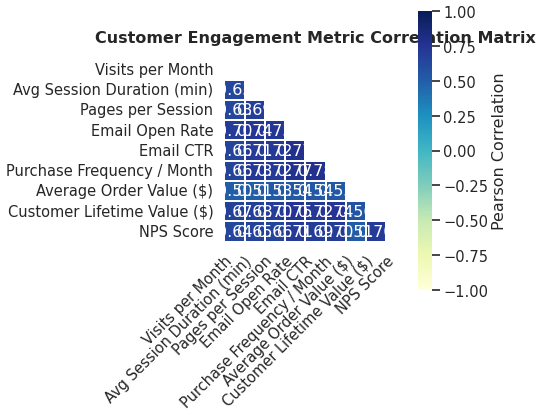
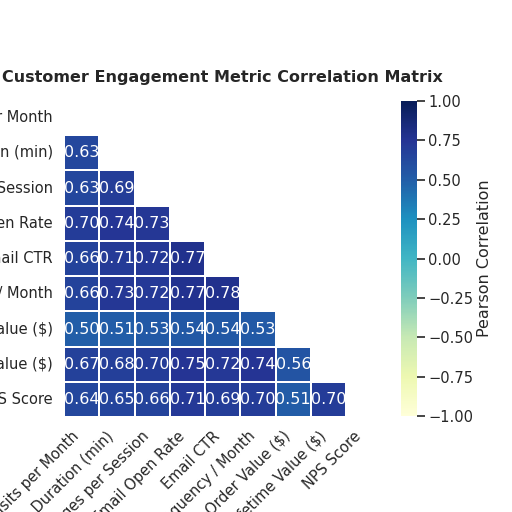
512

diff --git a/chart.py b/chart.py
@@ -103,8 +103,12 @@ def main():
     sns.set_context("talk")  # presentation-ready text sizes
 
     # --- Create 512x512 canvas ---
-    # 8 inches * 64 dpi = 512 pixels
-    plt.figure(figsize=(8, 8))
+    # Create the figure with an explicit DPI so the canvas is exactly
+    # 8 inches * 64 dpi = 512 pixels. We'll create the figure with
+    # `dpi=64` and `figsize=(8, 8)` and save using the figure's DPI
+    # without using `bbox_inches='tight'` (which can crop and change
+    # the final pixel dimensions).
+    fig, ax = plt.subplots(figsize=(8, 8), dpi=64)
 
     # Mask upper triangle for cleaner presentation
     mask = np.triu(np.ones_like(corr, dtype=bool))
@@ -123,10 +127,11 @@ def main():
             "shrink": 0.8,
             "label": "Pearson Correlation",
         },
+        ax=ax,
     )
 
     # Titles & labels tuned for an executive audience
-    plt.title(
+    ax.set_title(
         "Customer Engagement Metric Correlation Matrix",
         pad=20,
         fontsize=18,
@@ -135,11 +140,11 @@ def main():
     ax.set_xticklabels(ax.get_xticklabels(), rotation=45, ha="right")
     ax.set_yticklabels(ax.get_yticklabels(), rotation=0)
 
-    plt.tight_layout()
-
-    # --- Export as 512x512 PNG ---
-    plt.savefig("chart.png", dpi=64, bbox_inches="tight")
-    plt.close()
+    # Do not call `plt.tight_layout()` or save with `bbox_inches='tight'`.
+    # Those can change the final pixel dimensions by trimming whitespace.
+    # Instead save using the figure's DPI so `figsize * dpi` yields exact pixels.
+    fig.savefig("chart.png", dpi=fig.dpi)
+    plt.close(fig)
 
 
 if __name__ == "__main__":
